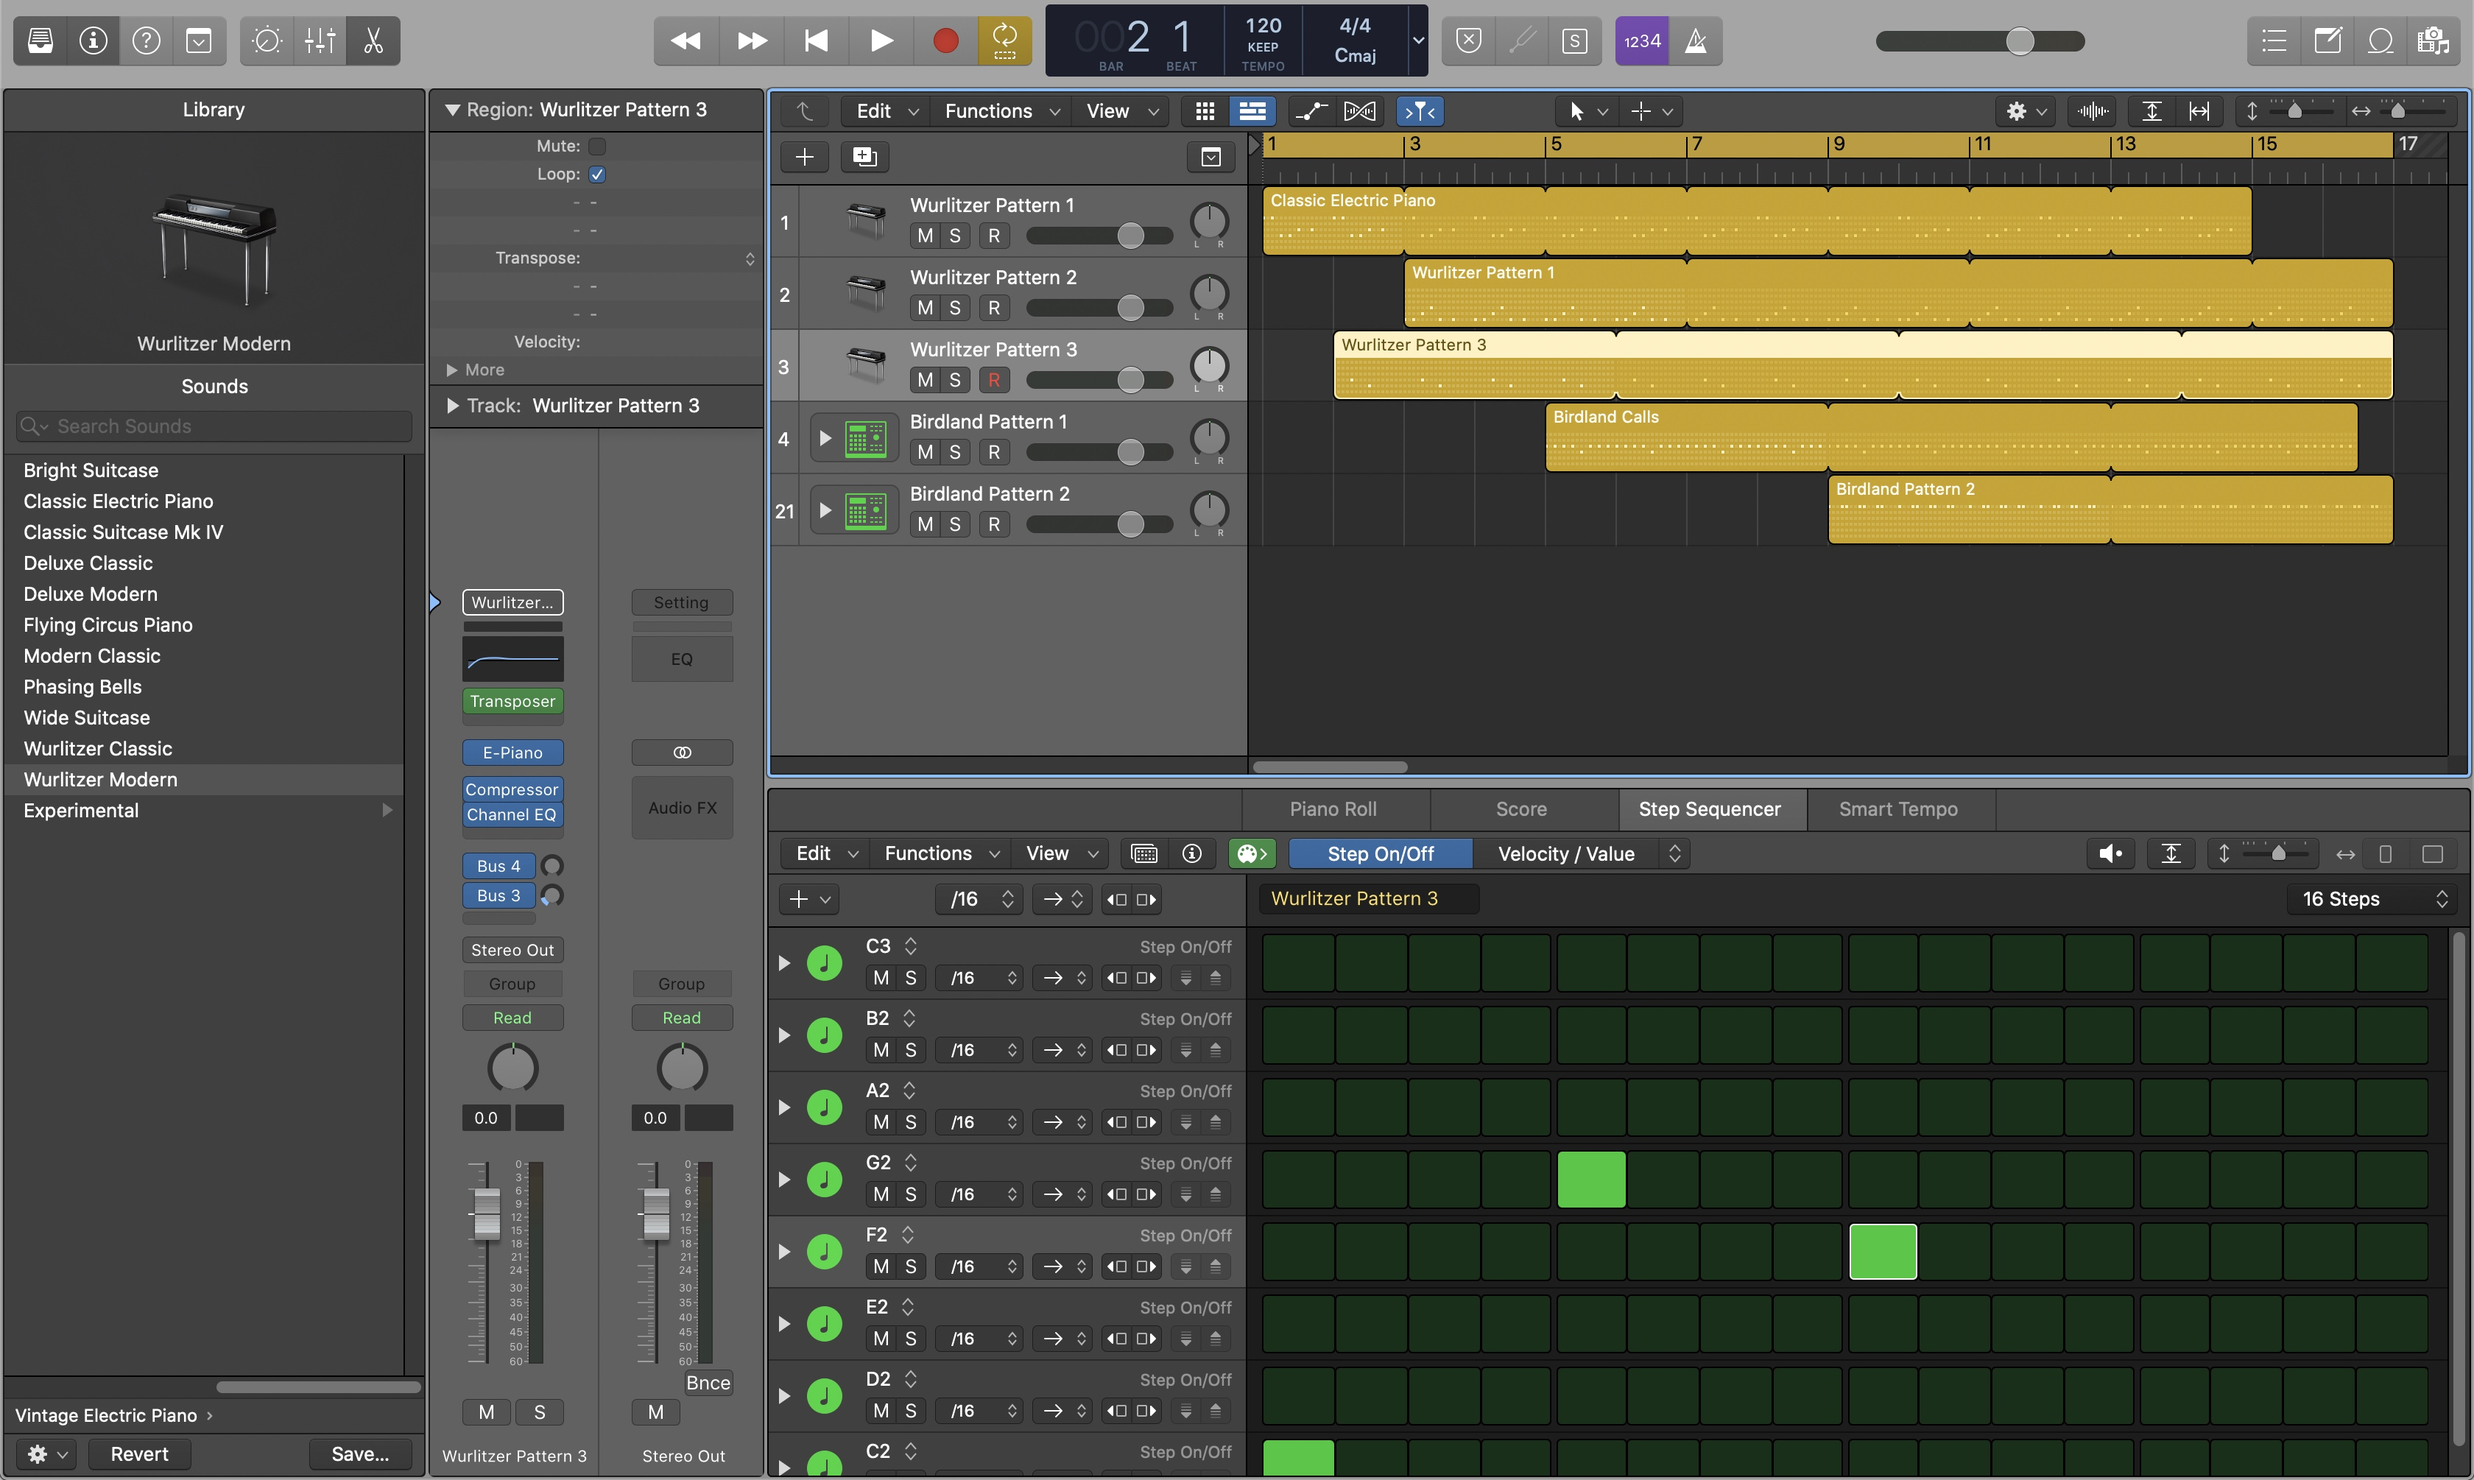
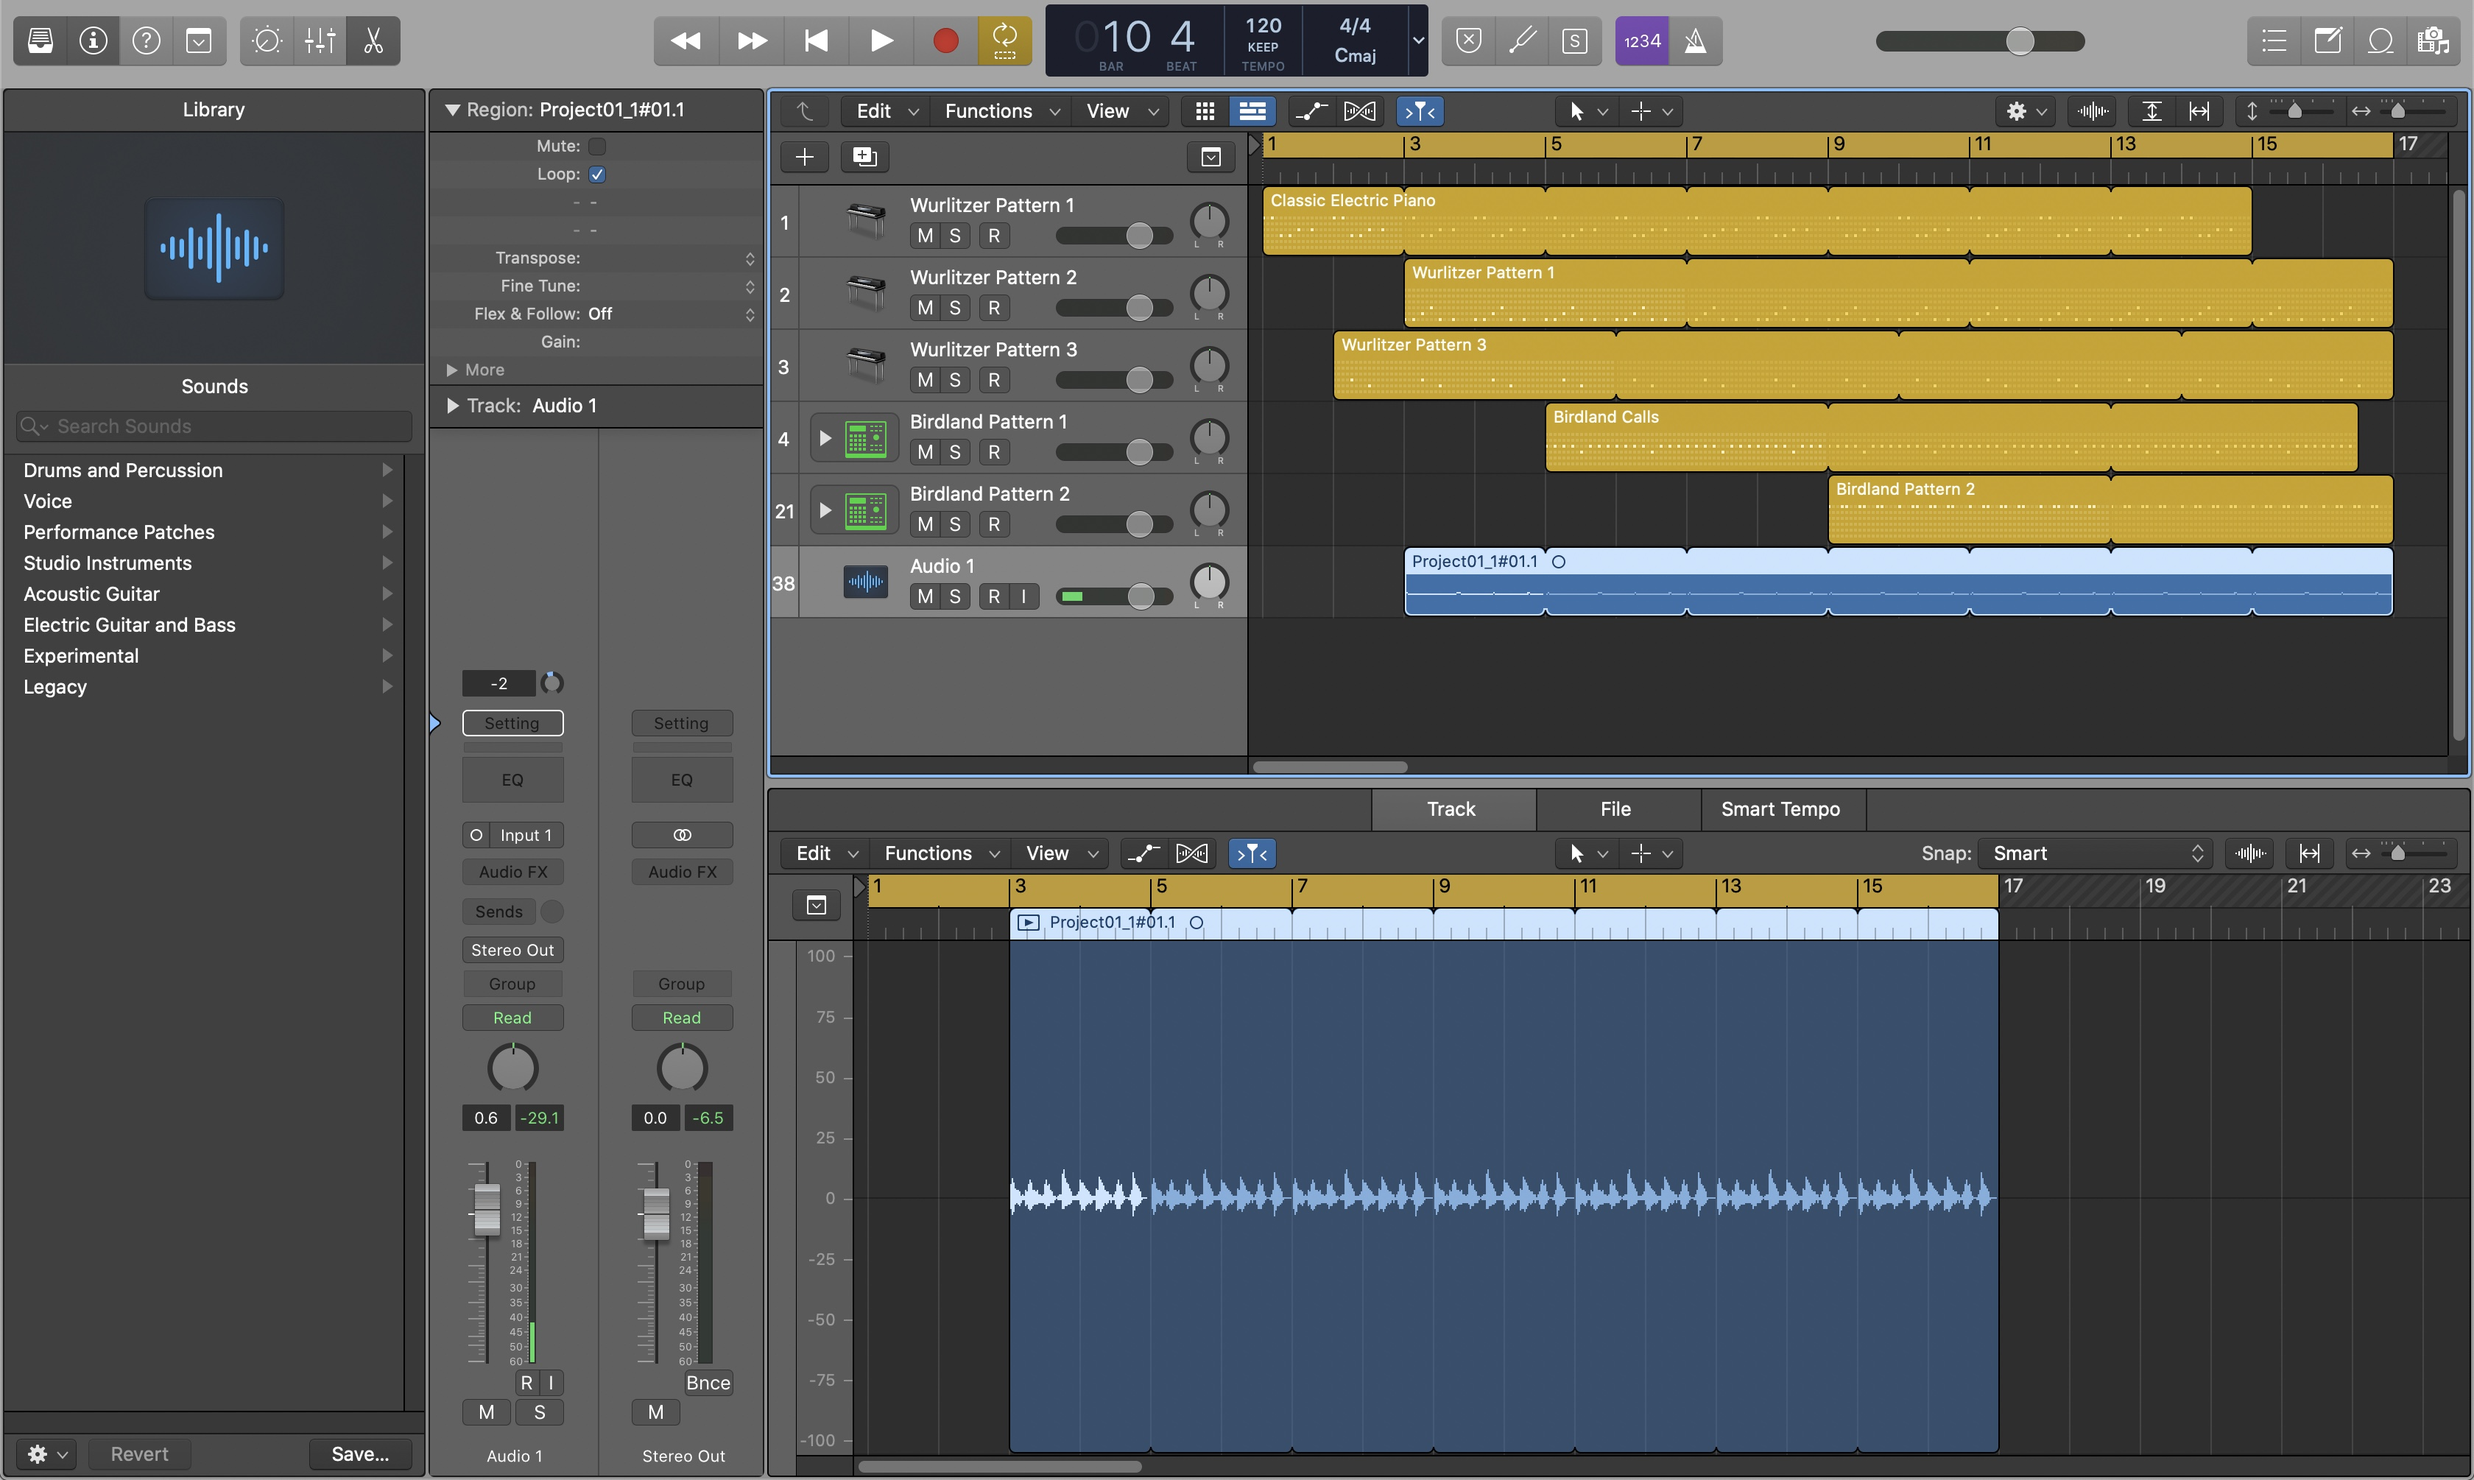
Now adding an audio file

diff --git a/README.md b/README.md
@@ -43,4 +43,6 @@ Tag 01.001: first commit to Project01 with the basic 4 tracks of sequencer data
 
 Tag 01.002: new 5th track added, "wurlitzer pattern 3"
 
-Tag 01.003: just a simple close, then reopen, then save with "no changes".
+Tag 01.003: just a simple close/reopen, then save with "no changes".
+
+Tag 01.004: added a 6th track, this one a basic vocal speaking track
